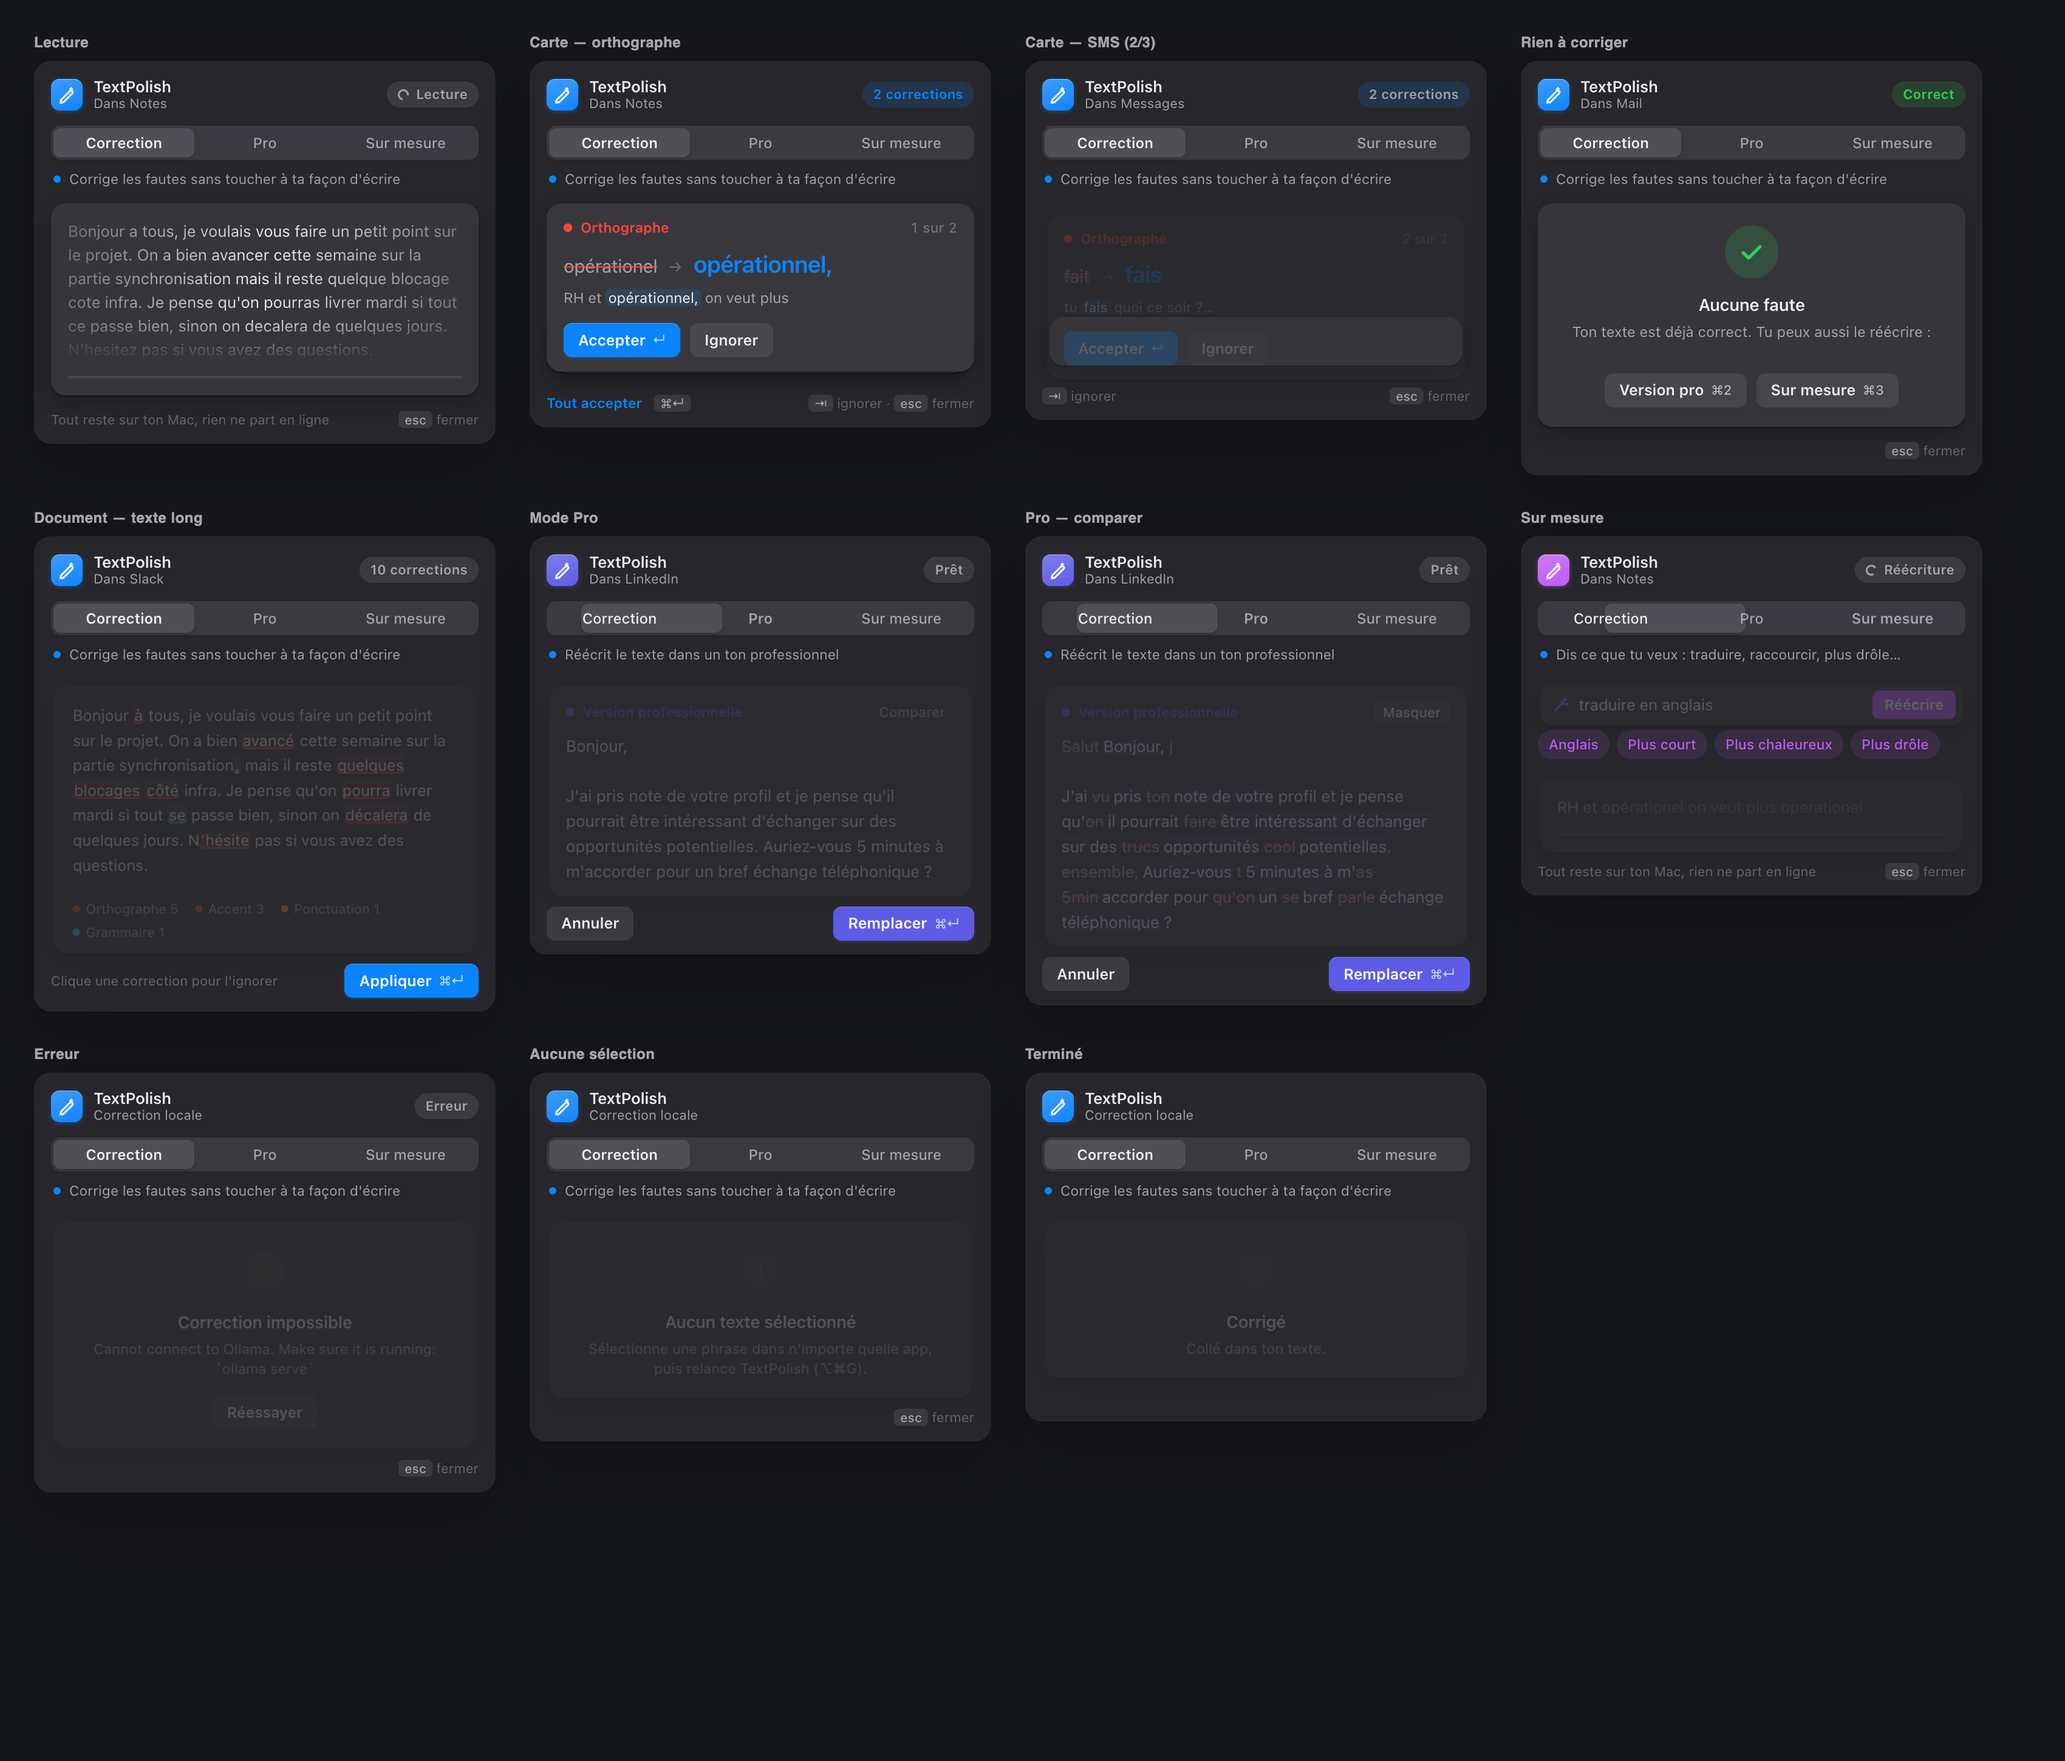
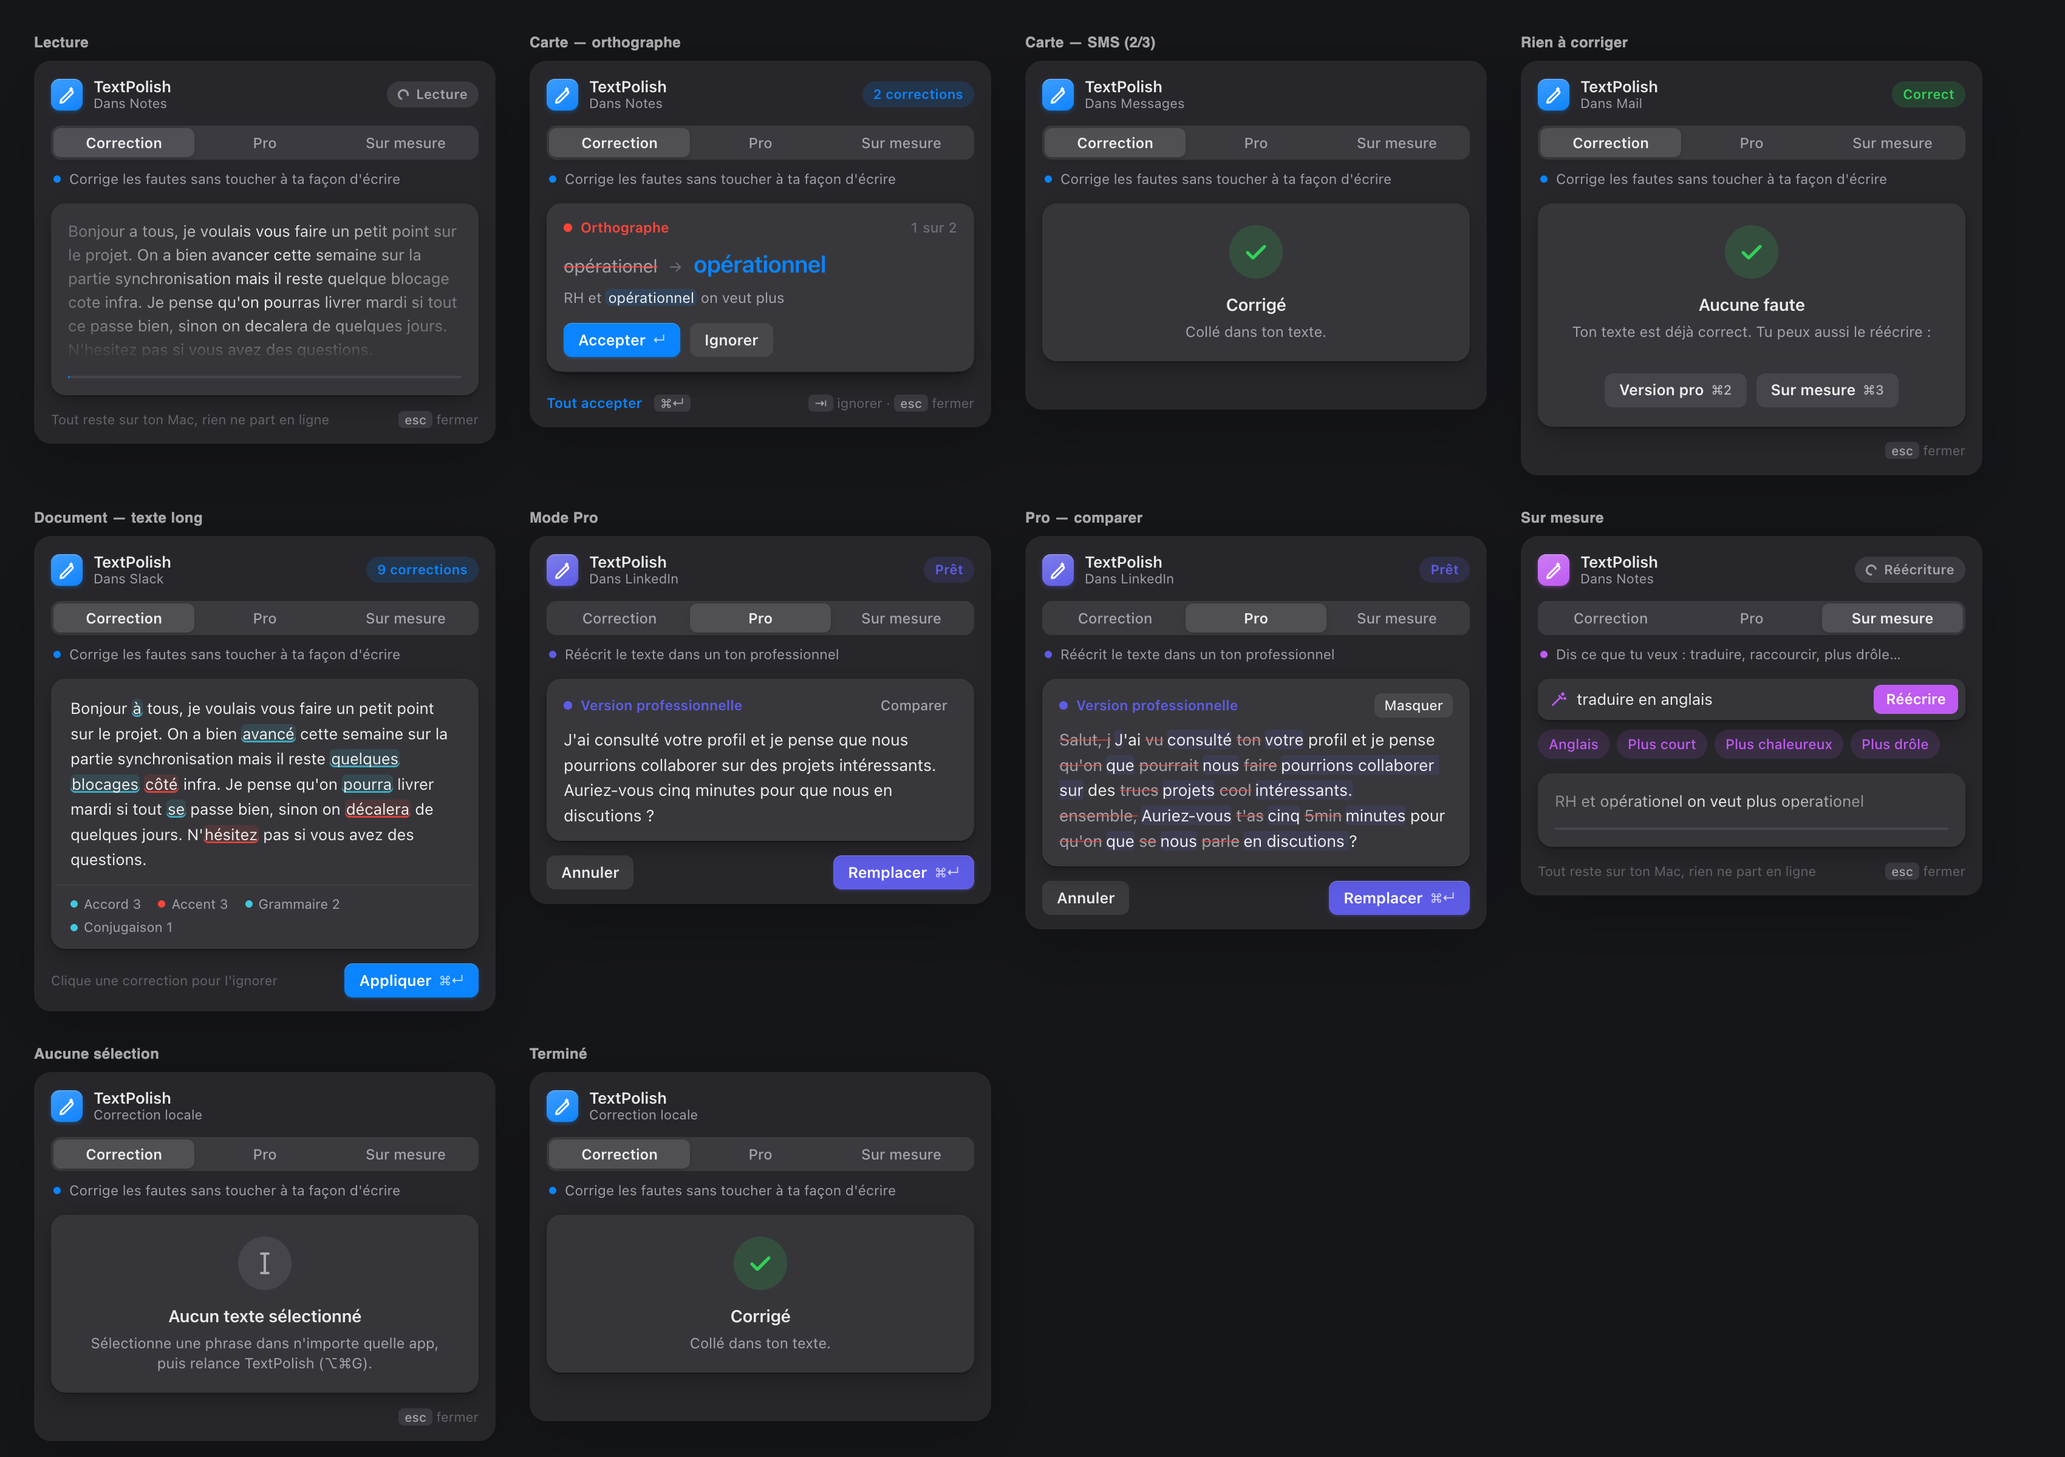
docs: drop the error state from the state boards and fix case study links
The light/dark boards showed an Ollama error; it is no longer part of
the showcase. French boards use fixtures regenerated with the current
fix labels. README links to the case study and video now open the
GitHub Pages site instead of raw HTML.

diff --git a/design/preview.html b/design/preview.html
@@ -32,7 +32,6 @@ const SCENARIOS = [
   [FR ? "Mode Pro" : "Pro mode", f => { A(f).setSourceApp("LinkedIn"); A(f).setMode("pro"); A(f).setChanges(f.fx.pro.parts, "rewrite"); }],
   [FR ? "Pro — comparer" : "Pro — compare", f => { A(f).setSourceApp("LinkedIn"); A(f).setMode("pro"); A(f).setChanges(f.fx.pro.parts, "rewrite"); f.contentWindow.toggleCompare(); }],
   [FR ? "Sur mesure" : "Custom", f => { A(f).setSourceApp("Notes"); A(f).setMode("custom"); f.contentWindow.document.getElementById("instrInput").value = FR ? "traduire en anglais" : "translate into French"; A(f).setInputText(f.fx.typo.input); A(f).onPolishStart(); }],
-  [FR ? "Erreur" : "Error", f => { A(f).onError("Cannot connect to Ollama. Make sure it is running: `ollama serve`"); }],
   [FR ? "Aucune sélection" : "No selection", f => { A(f).setShortcut("⌥⌘G"); A(f).noSelection(); }],
   [FR ? "Terminé" : "Done", f => { A(f).setChanges(f.fx.typo.parts, "cards"); f.contentWindow.acceptAll(); }],
 ];

diff --git a/README.md b/README.md
@@ -11,11 +11,11 @@ Select text in any app, press ⌥⌘G, review the fixes, and the text is pasted 
   <img src="docs/demo.gif" width="720" alt="Demo in TextEdit: a 351-character English message with 11 mistakes is corrected with each fix labelled (grammar, agreement, verbs, spelling, punctuation, capitalization), then rewritten in Pro with ⌘2, then translated into French with a Custom request and pasted back">
 </p>
 
-<p align="center"><b><a href="docs/textpolish-demo.mp4">▶ Watch the 1-minute video</a></b> — real recordings of the app in English, then the switch to French; typing (and one wait, marked on screen) is sped up, and the on-screen stopwatch always shows the real model time (made with <a href="video/">Remotion</a>).</p>
+<p align="center"><b><a href="https://enguerrand-roques.github.io/textpolish/textpolish-demo.mp4">▶ Watch the 1-minute video</a></b> — real recordings of the app in English, then the switch to French; typing (and one wait, marked on screen) is sped up, and the on-screen stopwatch always shows the real model time (made with <a href="video/">Remotion</a>).</p>
 
 The popup reads the selection, then adapts: one card per correction for short texts, a highlighted document for long ones, a single rewrite in Pro / Custom. Everything runs locally.
 
-→ UX case study (design process, iterations, real-use testing): [`docs/case-study.html`](docs/case-study.html) · all popup states: [light](docs/screenshots/all-states-light.png) / [dark](docs/screenshots/all-states-dark.png)
+→ **[Read the UX case study](https://enguerrand-roques.github.io/textpolish/case-study.html)** (design process, iterations, real-use testing) · **[Project website](https://enguerrand-roques.github.io/textpolish/)** · every popup state: [light](docs/screenshots/all-states-light.png) / [dark](docs/screenshots/all-states-dark.png)
 
 > **Prefer a cloud version?** → [TextPolish Cloud](https://github.com/Enguerrand-Roques/textpolish-cloud) uses Google Gemini — no local model required, free API key.
 
